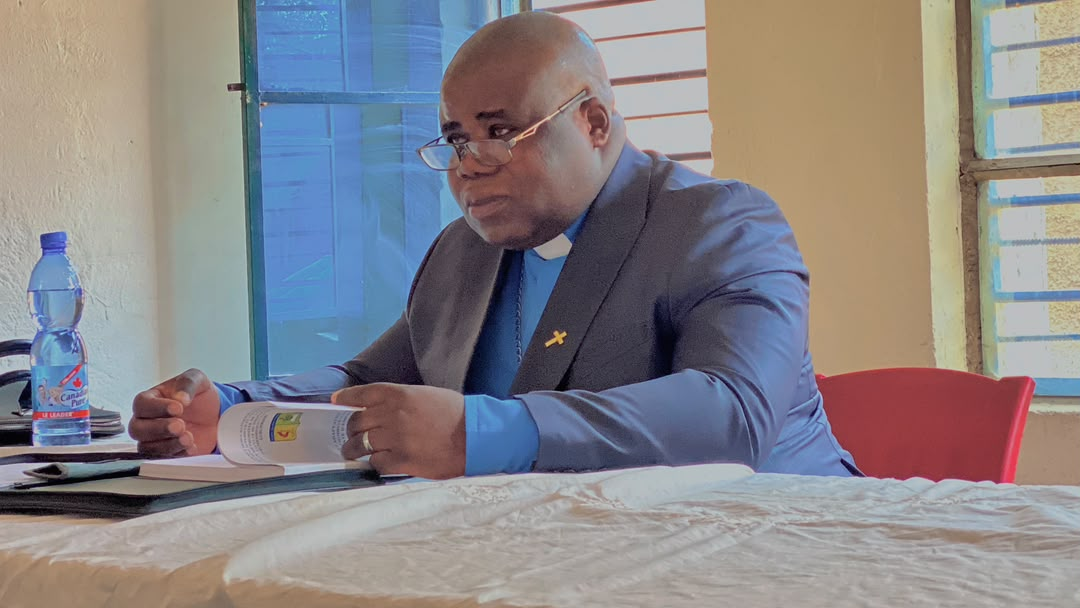
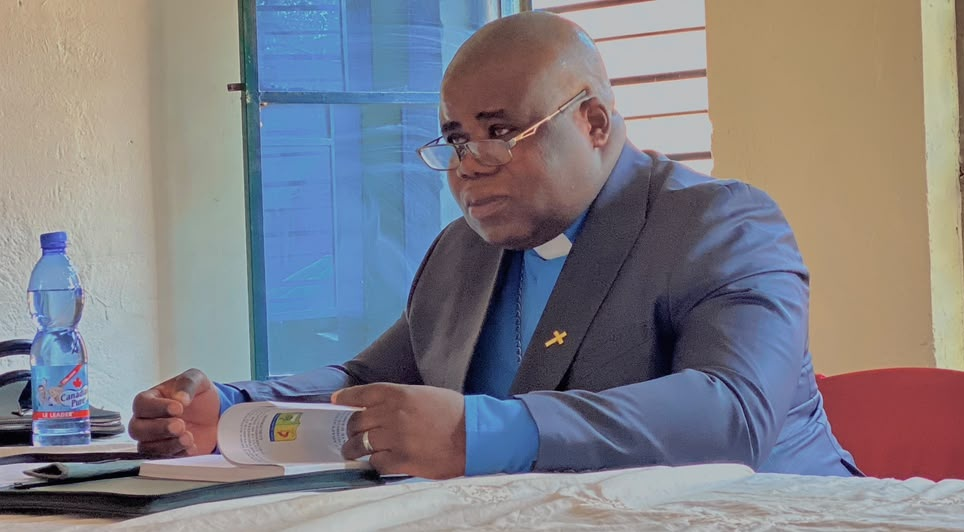
Événements défenses : remplacement de l'événement générique par 3 événements du 22/07/2026 — Rév. Olivier IZWELA SAKANONO (photo 18), Jury 1 de Master (photo 2), Rév. Jacques MUTOND / Grande Distinction (photo 17)

diff --git a/backend/models/ensureSchema.js b/backend/models/ensureSchema.js
@@ -488,33 +488,46 @@ async function synchroniserFilieresAffiche(pool) {
   if (ajouts || suppr) console.log(`✅ Filières alignées sur l'affiche (ajoutées : ${ajouts}, supprimées : ${suppr}).`);
 }
 
-// Événement (page d'accueil) : communiqué des défenses académiques de juillet 2026.
-// Inséré une seule fois (idempotent sur le titre).
-async function seedEvenementDefenses(pool) {
-  const titre = 'UML — Défenses académiques en Master et Licence (Théologie)';
-  const imageEvt = 'Uml defense master (18).jpeg'; // photo dans frontend/img
-  const [[ex]] = await pool.query("SELECT id FROM annonce WHERE titre = ? AND type = 'evenement' LIMIT 1", [titre]);
-  if (ex) {
-    // Événement déjà présent : on s'assure seulement que sa photo est renseignée.
-    await pool.query('UPDATE annonce SET image = ? WHERE id = ?', [imageEvt, ex.id]);
-    return;
+// Événements (page d'accueil) : défenses académiques de Master du 22 juillet 2026.
+// Trois événements distincts (idempotents sur le titre) ; l'ancien événement
+// générique est supprimé au passage.
+async function seedEvenementsDefenses(pool) {
+  // Retrait de l'ancien événement générique (remplacé par des événements détaillés).
+  await pool.query("DELETE FROM annonce WHERE type = 'evenement' AND titre = ?",
+    ['UML — Défenses académiques en Master et Licence (Théologie)']);
+
+  const DATE = '2026-07-22';
+  const evts = [
+    {
+      titre: 'Défense de mémoire de Master — Rév. Olivier IZWELA SAKANONO',
+      description: "Défense publique du mémoire de Master du Révérend Olivier IZWELA SAKANONO, Doyen des Surintendants du Sud-Congo.",
+      image: 'Uml defense master (18).jpeg',
+    },
+    {
+      titre: 'UML — Défenses académiques en Master (Jury 1)',
+      description: "Jury 1 de Master — 22 juillet 2026.",
+      image: 'Uml defense master (2).jpeg',
+    },
+    {
+      titre: 'Défense de mémoire de Master — Rév. Jacques MUTOND',
+      description: "Le Surintendant du district de Mémorial Bishop Kasap, Révérend Jacques MUTOND — une défense soldée par une mention Grande Distinction.",
+      image: 'Uml defense master (17).jpeg',
+    },
+  ];
+  for (const e of evts) {
+    const [[ex]] = await pool.query("SELECT id FROM annonce WHERE titre = ? AND type = 'evenement' LIMIT 1", [e.titre]);
+    if (ex) {
+      await pool.query('UPDATE annonce SET description = ?, date_annonce = ?, image = ?, actif = 1 WHERE id = ?',
+        [e.description, DATE, e.image, ex.id]);
+    } else {
+      await pool.query(
+        `INSERT INTO annonce (type, titre, description, date_annonce, icone, image, actif, cible_faculte, cible_role, emetteur)
+         VALUES ('evenement', ?, ?, ?, '🎓', ?, 1, NULL, NULL, 'admin')`,
+        [e.titre, e.description, DATE, e.image]
+      );
+    }
   }
-  const description =
-    "Au total 20 étudiants en Théologie, dont 7 en Master et 13 en Licence, ont défendu leur travail scientifique le mardi 22 et le mercredi 23 juillet 2026. " +
-    "Cette défense publique vient de tracer un envol stratégique pour l'Université Méthodiste de Lubumbashi (UML). " +
-    "La cérémonie s'est déroulée en présence des autorités académiques, notamment le Recteur de cette alma mater, le Rév. Pr Jean-Marie KONGE.\n\n" +
-    "Parmi les lauréats figuraient des autorités ecclésiastiques, notamment le Doyen des Surintendants du Sud-Congo, Révérend Olivier IZWELA SAKANONO, " +
-    "et le Surintendant du district de Mémorial Bishop Kasap, Révérend Jacques MUTOND, qui ont achevé cette étape académique avec mention Grande Distinction.\n\n" +
-    "La cérémonie de collation des grades académiques est prévue pour le 1er août 2026. " +
-    "L'UML prône un enseignement de qualité dans un élan scientifique de sainteté et de vérité, et organise plusieurs filières : Faculté de Théologie, " +
-    "Sciences Économiques, Sciences Informatiques et Sciences de l'Éducation & Psychologie.\n\n" +
-    "La rentrée académique est prévue pour le 19 août 2026.";
-  await pool.query(
-    `INSERT INTO annonce (type, titre, description, date_annonce, icone, image, actif, cible_faculte, cible_role, emetteur)
-     VALUES ('evenement', ?, ?, '2026-07-22', '🎓', ?, 1, NULL, NULL, 'admin')`,
-    [titre, description, imageEvt]
-  );
-  console.log('✅ Événement « Défenses académiques (Théologie) » ajouté.');
+  console.log('✅ Événements « Défenses de Master (22 juillet) » synchronisés.');
 }
 
 async function assurerSchema(pool) {
@@ -536,8 +549,8 @@ async function assurerSchema(pool) {
   // Alignement des filières sur l'affiche officielle « Nos filières » (ajoute
   // celles de l'affiche, supprime les autres). Après le seed de la maquette IG.
   try { await synchroniserFilieresAffiche(pool); } catch (e) { console.error('⚠ Synchronisation filières (affiche) :', e.message); }
-  // Événement des défenses académiques (page d'accueil), idempotent.
-  try { await seedEvenementDefenses(pool); } catch (e) { console.error('⚠ Seed événement défenses :', e.message); }
+  // Événements des défenses académiques (page d'accueil), idempotents.
+  try { await seedEvenementsDefenses(pool); } catch (e) { console.error('⚠ Seed événements défenses :', e.message); }
   // Correction des Pré-U illégitimes (hors SI/GL/IA/Design) → L1, avant la resync.
   try { await corrigerPreUErrones(pool); } catch (e) { console.error('⚠ Correction Pré-U :', e.message); }
   // Correction des Master sans filière (ex. « M1 Théologie » sans filière) → 1ʳᵉ

diff --git a/frontend/index.html b/frontend/index.html
@@ -147,6 +147,30 @@
       <p class="sous-titre" data-i18n="galerie.soustitre">Découvrez l'UML à travers ses événements et activités</p>
       <div class="galerie-grid">
 
+
+        <div class="galerie-card">
+          <img src="img/Uml defense master (15).jpeg" alt="Étudiant présentant sa défense de Master" loading="lazy">
+          <div class="galerie-overlay">
+            <span class="galerie-tag">Défenses</span>
+            <p>Présentation devant le jury académique</p>
+          </div>
+        </div>
+
+        <div class="galerie-card">
+          <img src="img/Uml defense master (17).jpeg" alt="Lauréats de Master en Théologie" loading="lazy">
+          <div class="galerie-overlay">
+            <span class="galerie-tag">Défenses</span>
+            <p>Nos lauréats de Master — Grande Distinction</p>
+          </div>
+        </div>
+
+        <div class="galerie-card">
+          <img src="img/defenses (1).jpeg" alt="Défenses de mémoire" loading="lazy">
+          <div class="galerie-overlay">
+            <span class="galerie-tag" data-i18n="galerie.tag8">Défenses</span>
+            <p data-i18n="galerie.legende8">Défenses de mémoire de master</p>
+          </div>
+        </div>
         <div class="galerie-card grand">
           <img src="img/collation.jpg" alt="Collation des grades UML" loading="lazy">
           <div class="galerie-overlay">
@@ -204,7 +228,7 @@
           </div>
         </div>
 
-        <div class="galerie-card grand">
+        <div class="galerie-card">
           <img src="img/Uml defense master (3).jpeg" alt="Défense de mémoire de Master à l'UML" loading="lazy">
           <div class="galerie-overlay">
             <span class="galerie-tag">Défenses</span>
@@ -212,29 +236,7 @@
           </div>
         </div>
 
-        <div class="galerie-card">
-          <img src="img/Uml defense master (15).jpeg" alt="Étudiant présentant sa défense de Master" loading="lazy">
-          <div class="galerie-overlay">
-            <span class="galerie-tag">Défenses</span>
-            <p>Présentation devant le jury académique</p>
-          </div>
-        </div>
-
-        <div class="galerie-card">
-          <img src="img/Uml defense master (17).jpeg" alt="Lauréats de Master en Théologie" loading="lazy">
-          <div class="galerie-overlay">
-            <span class="galerie-tag">Défenses</span>
-            <p>Nos lauréats de Master — Grande Distinction</p>
-          </div>
-        </div>
-
-        <div class="galerie-card">
-          <img src="img/defenses (1).jpeg" alt="Défenses de mémoire" loading="lazy">
-          <div class="galerie-overlay">
-            <span class="galerie-tag" data-i18n="galerie.tag8">Défenses</span>
-            <p data-i18n="galerie.legende8">Défenses de mémoire de master</p>
-          </div>
-        </div>
+        
          <div class="galerie-card">
           <img src="img/defenses (4).jpeg" alt="Défenses de mémoire" loading="lazy">
           <div class="galerie-overlay">
